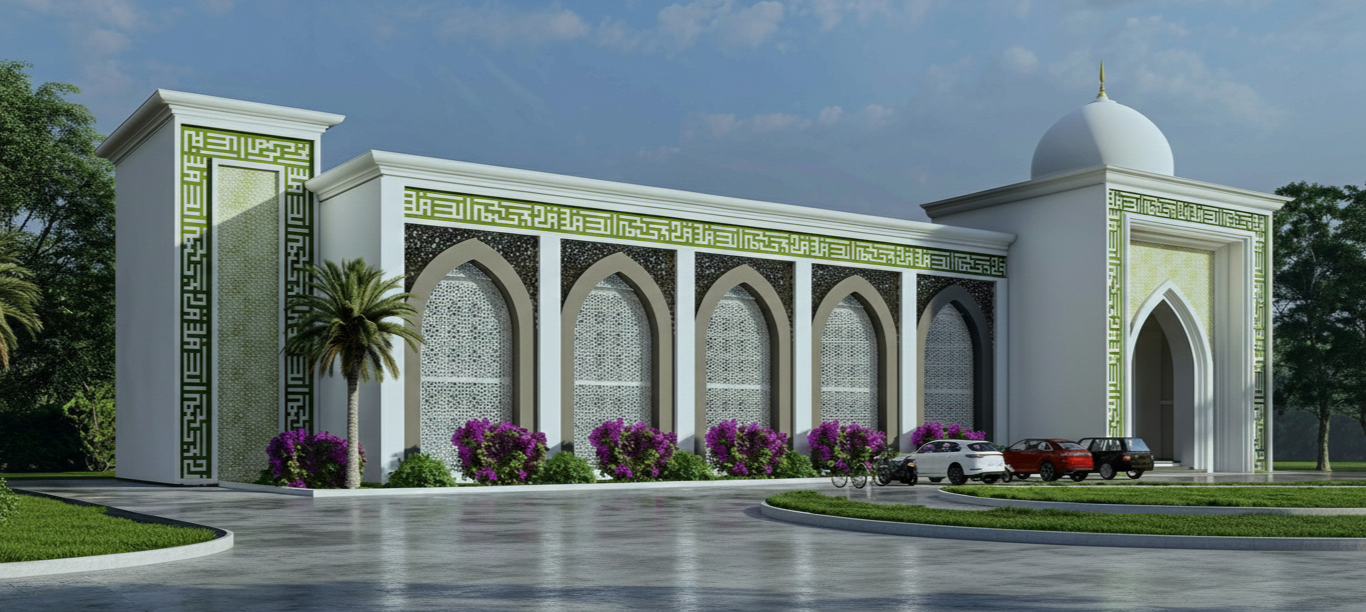
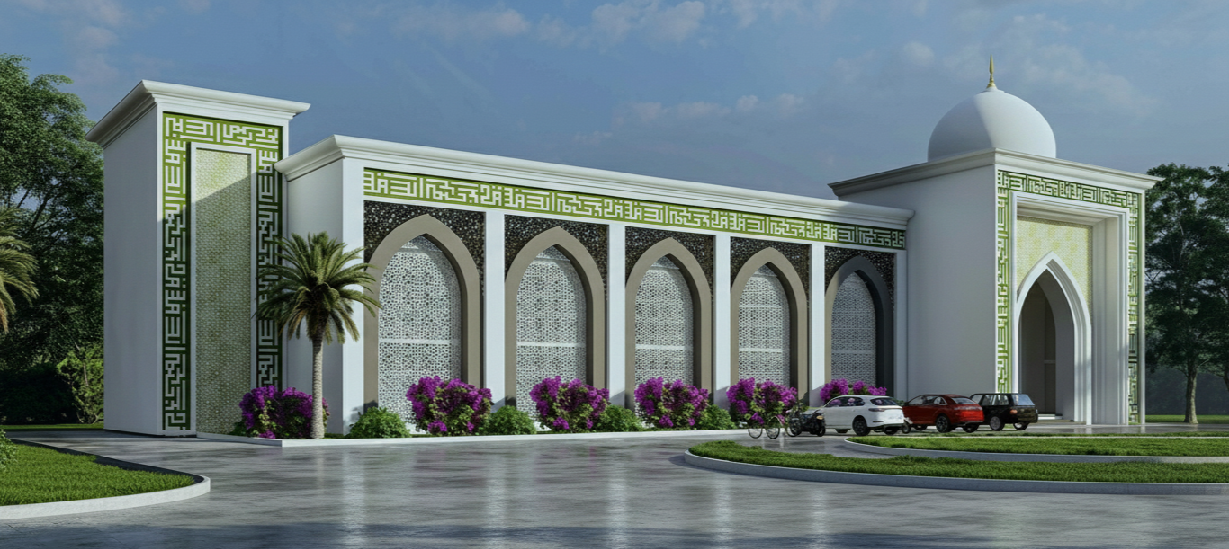
hi

diff --git a/app/mir/page.tsx b/app/mir/page.tsx
@@ -71,7 +71,7 @@ export default function MIRPage() {
                 subtitle="The symbol signifies that knowledge is the bedrock of all social, cultural, and environmental sustainability in the universe."
                 primaryCta={{ label: "Register for Admission", href: "https://docs.google.com/forms/d/e/1FAIpQLSerK_Ci-gXwBgBT95-oQavIeNQ0jJCAV0NDY4MmTcvdJB7xXA/viewform?usp=dialog" }}
                 primaryCtaVariant="mir-primary"
-                backgroundImage="/new/mir-hero-bg.png"
+                backgroundImage="/hero.jpeg"
             // sideImage="/new/mir-hero.png"
             />
 
